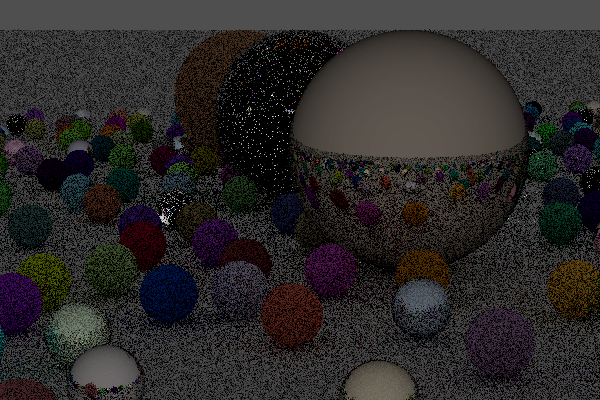
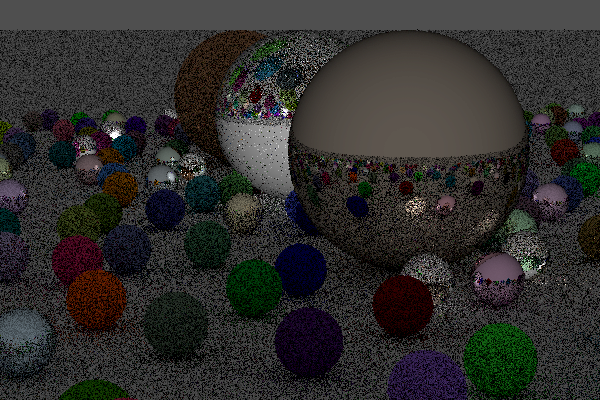
Fix dielectrics

diff --git a/raytracer/src/material/dielectric.rs b/raytracer/src/material/dielectric.rs
@@ -20,38 +20,40 @@ impl Material for Dielectric {
         let mut rng = rand::thread_rng();
         let attenuation = Vec3::all(1.0);
 
-        let dir_dot_normal = Vec3::dot(ray.direction, record.normal);
-
-        let (outward_normal, ni_over_nt, cos) = if dir_dot_normal >= 0.0 {
-            (
-                -record.normal,
-                self.reflective_index,
-                self.reflective_index * dir_dot_normal / ray.direction.length(),
-            )
+        let n1_over_n2 = if record.front_face {
+            1.0 / self.reflective_index
         } else {
-            (
-                record.normal,
-                1.0 / self.reflective_index,
-                -dir_dot_normal / ray.direction.length(),
-            )
+            self.reflective_index
         };
 
-        let reflected = utils::reflect(ray.direction, record.normal);
-        let scattered =
-            if let Some(refracted) = utils::refract(ray.direction, outward_normal, ni_over_nt) {
-                let reflect_prob = utils::schlick(cos, self.reflective_index);
-                if rng.gen::<FloatTy>() < reflect_prob {
-                    Ray::new(record.p, reflected)
-                } else {
-                    Ray::new(record.p, refracted)
-                }
-            } else {
-                Ray::new(record.p, reflected)
-            };
+        let uv = ray.direction.to_unit();
+        let cos_theta = clamp_right(Vec3::dot(-uv, record.normal), 1.0);
+        let sin_theta = (1.0 - cos_theta * cos_theta).sqrt();
 
-        Some(MaterialScatter {
-            attenuation,
-            scattered: Some(scattered),
-        })
+        let reflect_prob = utils::schlick(cos_theta, self.reflective_index);
+
+        if n1_over_n2 * sin_theta > 1.0 || rng.gen::<FloatTy>() < reflect_prob {
+            let reflected = utils::reflect(uv, record.normal);
+            let scattered = Ray::new(record.p, reflected);
+            Some(MaterialScatter {
+                attenuation,
+                scattered: Some(scattered),
+            })
+        } else {
+            let refracted = utils::refract(uv, record.normal, n1_over_n2);
+            let scattered = Ray::new(record.p, refracted);
+            Some(MaterialScatter {
+                attenuation,
+                scattered: Some(scattered),
+            })
+        }
+    }
+}
+
+fn clamp_right(a: FloatTy, b: FloatTy) -> FloatTy {
+    if a <= b {
+        a
+    } else {
+        b
     }
 }

diff --git a/raytracer/src/sphere.rs b/raytracer/src/sphere.rs
@@ -53,28 +53,30 @@ impl Intersectable for Sphere {
         if utils::is_in_range(t1, tmin, tmax) {
             let p = ray.point_at_parameter(t1);
             let (u, v) = Sphere::compute_uv(p);
-            return Some(IntersectionRecord {
-                t: t1,
+            return Some(IntersectionRecord::new(
+                ray,
+                t1,
                 p,
+                (p - self.center) / self.radius,
                 u,
                 v,
-                normal: (p - self.center) / self.radius,
-                material: self.material.clone(),
-            });
+                self.material.clone(),
+            ));
         }
 
         let t2 = (-b + discriminant.sqrt()) / (2.0 * a);
         if utils::is_in_range(t2, tmin, tmax) {
             let p = ray.point_at_parameter(t2);
             let (u, v) = Sphere::compute_uv(p);
-            Some(IntersectionRecord {
-                t: t2,
+            return Some(IntersectionRecord::new(
+                ray,
+                t2,
                 p,
+                (p - self.center) / self.radius,
                 u,
                 v,
-                normal: (p - self.center) / self.radius,
-                material: self.material.clone(),
-            })
+                self.material.clone(),
+            ));
         } else {
             None
         }

diff --git a/raytracer/src/intersectable.rs b/raytracer/src/intersectable.rs
@@ -12,7 +12,37 @@ pub struct IntersectionRecord {
     pub normal: Vec3,
     pub u: FloatTy,
     pub v: FloatTy,
+    pub front_face: bool,
     pub material: Arc<dyn Material>,
+}
+
+impl IntersectionRecord {
+    pub fn new(
+        ray: &Ray,
+        t: FloatTy,
+        p: Vec3,
+        outward_normal: Vec3,
+        u: FloatTy,
+        v: FloatTy,
+        material: Arc<dyn Material>,
+    ) -> Self {
+        let front_face = Vec3::dot(ray.direction, outward_normal) < 0.0;
+        let normal = if front_face {
+            outward_normal
+        } else {
+            -outward_normal
+        };
+
+        IntersectionRecord {
+            t,
+            p,
+            normal,
+            u,
+            v,
+            front_face,
+            material,
+        }
+    }
 }
 
 pub trait Intersectable: Sync + Send {

diff --git a/raytracer/src/material/utils.rs b/raytracer/src/material/utils.rs
@@ -7,15 +7,11 @@ pub fn reflect(v: Vec3, n: Vec3) -> Vec3 {
     v - n * 2.0 * Vec3::dot(v, n)
 }
 
-pub fn refract(v: Vec3, n: Vec3, ni_over_nt: FloatTy) -> Option<Vec3> {
-    let uv = v.to_unit();
-    let dt = Vec3::dot(uv, n);
-    let discriminant = 1.0 - ni_over_nt * ni_over_nt * (1.0 - dt * dt);
-    if discriminant > 0.0 {
-        Some((uv - n * dt) * ni_over_nt - n * discriminant.sqrt())
-    } else {
-        None
-    }
+pub fn refract(uv: Vec3, n: Vec3, n1_over_n2: FloatTy) -> Vec3 {
+    let cos_theta = Vec3::dot(-uv, n);
+    let r_out_parallel = (uv + n * cos_theta) * n1_over_n2;
+    let r_out_perp = n * -(1.0 - r_out_parallel.length_squared()).sqrt();
+    r_out_parallel + r_out_perp
 }
 
 pub fn schlick(cos: FloatTy, reflective_index: FloatTy) -> FloatTy {

diff --git a/raytracer/src/plane.rs b/raytracer/src/plane.rs
@@ -39,15 +39,15 @@ impl Intersectable for Plane {
         let t = Vec3::dot(self.point - ray.origin, self.normal) / denominator;
         if utils::is_in_range(t, tmin, tmax) {
             let p = ray.point_at_parameter(t);
-            Some(IntersectionRecord {
+            Some(IntersectionRecord::new(
+                ray,
                 t,
                 p,
-                // TODO: fix this
-                u: 0.0,
-                v: 0.0,
-                normal: self.normal,
-                material: self.material.clone(),
-            })
+                self.normal,
+                0.0,
+                0.0,
+                self.material.clone(),
+            ))
         } else {
             None
         }
